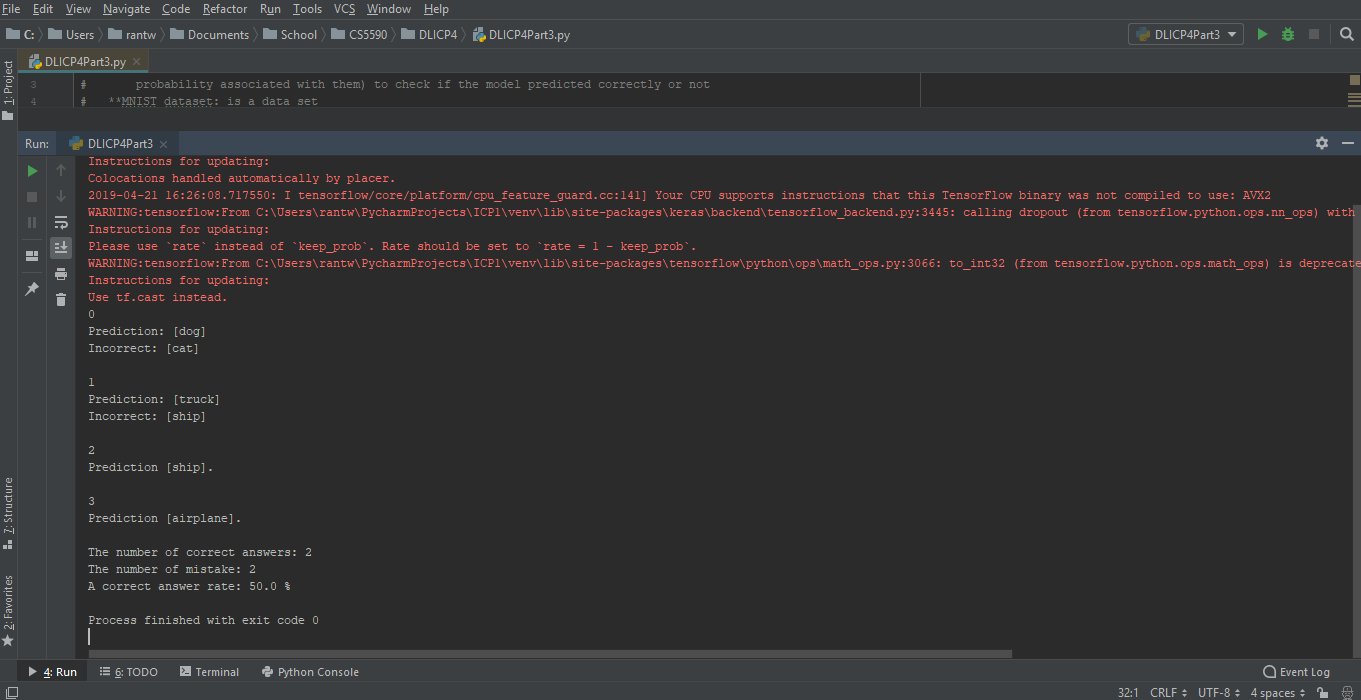
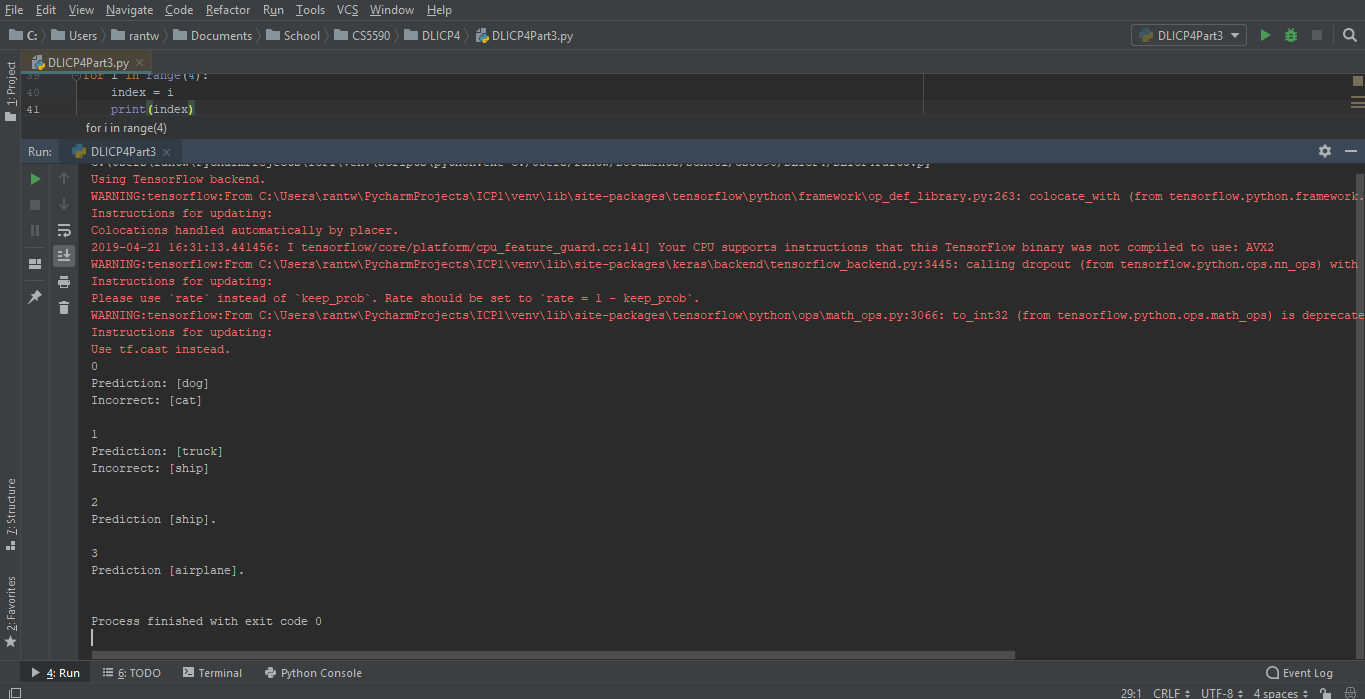
DLICP4

diff --git a/DLICP4/DLICP4Part3.py b/DLICP4/DLICP4Part3.py
@@ -36,9 +36,6 @@ labels = np.array(['airplane','automobile','bird', 'cat', 'deer', 'dog', 'frog',
 
 model = load_model('ICP4_weights.h5')
 
-right = 0
-mistake = 0
-
 for i in range(4):
     index = i
     print(index)
@@ -60,13 +57,7 @@ for i in range(4):
 
     if y_test[index] == iclass:
         print("Prediction [{}].".format(labels[iclass]))
-        right += 1
     else:
         print("Prediction: [{}]".format(labels[iclass]))
         print("Incorrect: [{}]".format(labels[y_test[index][0]]))
-        mistake += 1
     print()
-
-print("The number of correct answers:", right)
-print("The number of mistake:", mistake)
-print("A correct answer rate:", right / (mistake + right) * 100, '%')
